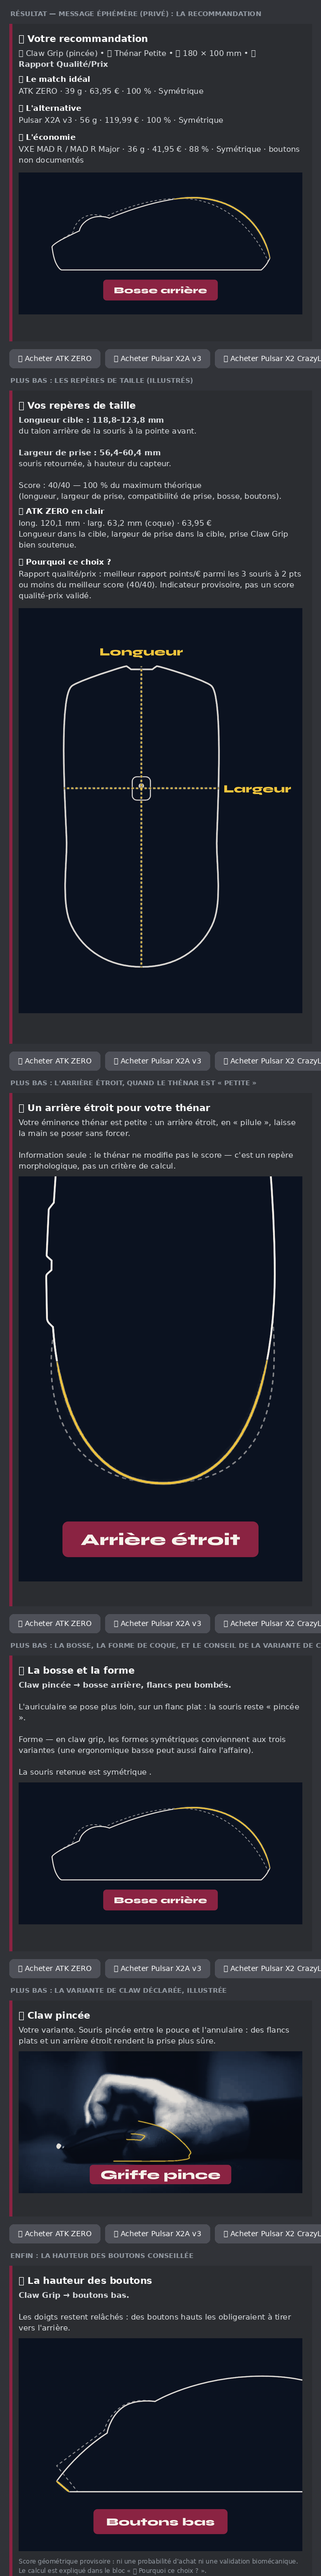
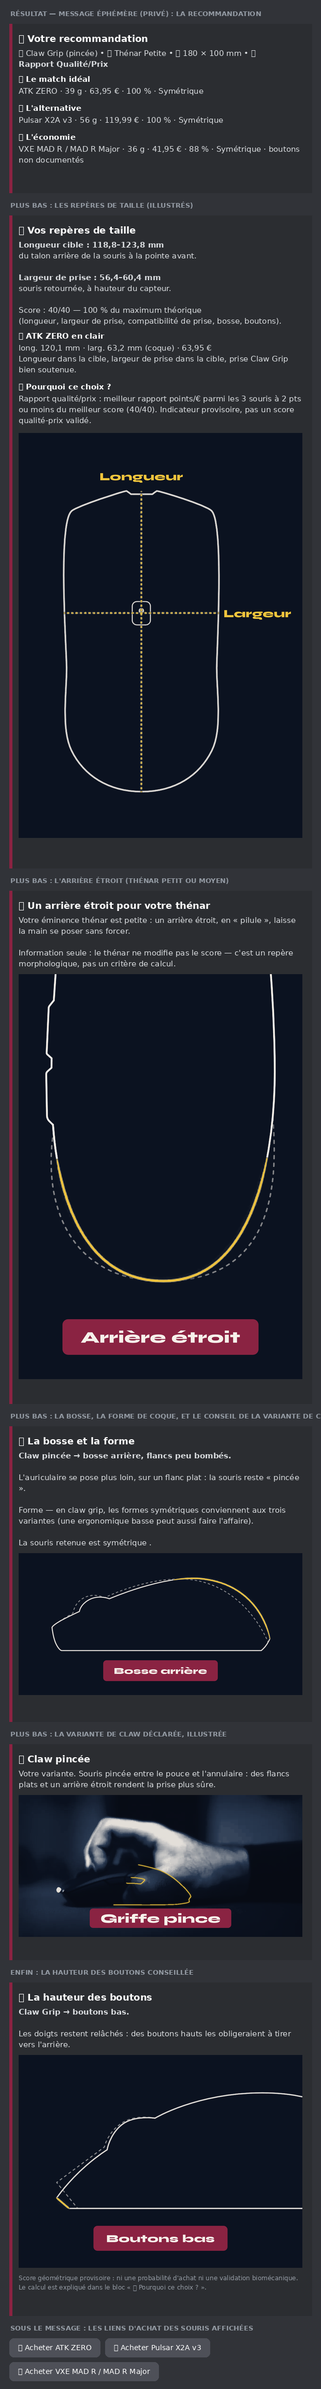
80e passe (1/3) : aperçu fidèle, une illustration par message, banc renforcé
- Aperçu PNG : les boutons étaient tirés du classement interne (selection.ranked) et non
  des souris affichées — l'aperçu montrait « Acheter Pulsar X2 CrazyLight » sous une
  3e place « VXE MAD R ». Ils sont désormais lus sur la vraie ResultsView, dessinés une
  seule fois sous le message (et non sous chacun des six blocs), avec retour à la ligne.
- Résultat : 21 032 des 49 153 messages de la grille (43 %, 82 % en Fingertip) montraient
  deux fois la même illustration. Elle n'apparaît plus qu'une fois, dans le bloc qui
  l'explique ; la recommandation en tête raccourcit d'autant sur mobile.
- Banc : la limite Discord des 6 000 caractères est comptée sur le MESSAGE entier (elle
  ne l'était que par bloc) ; le banc rend désormais les illustrations et refuse un doublon
  (mutation : 313 problèmes sur la grille rapide, 0 sans).
- Budget personnalisé trop bas : la carte « Aucun match » nomme la moins chère des
  souris notées pour la main (les 2 067 profils vides de la grille sont tous des budgets
  de 10 € ou 25 €, jamais une main hors catalogue).

828 tests, banc 21 736 profils : 0 problème.

Claude-Session: https://claude.ai/code/session_01W89iQct2gJnfSdnVdsAKme

diff --git a/tools/render_preview.py b/tools/render_preview.py
@@ -37,18 +37,18 @@ from utils.session import SessionStore  # noqa: E402
 
 
 def _boutons_achat(selection) -> list[tuple[str, bool]]:
-    """Reproduit les boutons RÉELS du résultat : un lien d'achat par souris classée qui en a un.
+    """Les boutons RÉELS du résultat, lus sur la vue que le bot envoie (``flow.ResultsView``).
 
-    Aucun libellé n'est écrit en dur : si le classement change, l'aperçu change avec lui
-    (jamais de bouton montrant une souris qui n'est plus recommandée).
+    Défaut corrigé le 2026-10-15 (80e passe) : cette fonction recalculait les boutons à partir de
+    ``selection.ranked`` — le classement interne — alors que le bot les construit sur les souris
+    **affichées** (``result_slots``). L'aperçu livré montrait donc « Acheter Pulsar X2 CrazyLight »
+    sous une troisième place « VXE MAD R ». Lire la vue elle-même rend tout écart impossible.
     """
     links = load_commercial_links(COMMERCIAL_LINKS_PATH)
-    labels = [
-        "🛒 " + f"Acheter {score.mouse.label}"[: flow.BUTTON_LABEL_MAX]
-        for score in selection.ranked
-        if links.get(score.mouse.id)
-    ]
-    return [(label, False) for label in labels] or [("🔗 Liens à venir", False)]
+    displayed = [score for score in flow.result_slots(selection) if score is not None]
+    vue = flow.ResultsView(displayed, links)
+    return [(f"{bouton.emoji} {bouton.label}" if bouton.emoji else bouton.label, False)
+            for bouton in vue.children]
 
 # Les images locales sont référencées par un faux domaine : l'aperçu dessine les fichiers de
 # assets/illustrations/ sans exiger qu'ils soient déjà publiés en https.
@@ -244,15 +244,30 @@ def draw_embed(canvas, draw, embed, y: int, x: int = PAD, width: int = LARGEUR -
 
 
 def draw_boutons(draw, y: int, libelles: list[tuple[str, bool]], x: int = PAD) -> int:
+    """Une rangée de boutons ; comme sur mobile, un bouton qui ne tient plus passe à la ligne."""
     cursor = x
+    font = _font(False, 14)
     for label, primaire in libelles:
-        font = _font(False, 14)
         width = int(font.getlength(label)) + 34
+        if cursor > x and cursor + width > LARGEUR - PAD:
+            cursor, y = x, y + 46
         fill = BOUTON_PRIMAIRE if primaire else BOUTON_SECONDAIRE
         draw.rounded_rectangle([cursor, y, cursor + width, y + 36], radius=8, fill=fill)
         draw.text((cursor + 17, y + 10), label, font=font, fill=WHITE)
         cursor += width + 10
     return y + 52
+
+
+def hauteur_boutons(libelles: list[tuple[str, bool]]) -> int:
+    """Hauteur occupée par ``draw_boutons`` (mêmes règles de passage à la ligne)."""
+    font = _font(False, 14)
+    lignes, cursor = 1, PAD
+    for label, _ in libelles:
+        width = int(font.getlength(label)) + 34
+        if cursor > PAD and cursor + width > LARGEUR - PAD:
+            lignes, cursor = lignes + 1, PAD
+        cursor += width + 10
+    return 52 + 46 * (lignes - 1)
 
 
 def nouveau_canvas(hauteur_totale: int) -> tuple[Image.Image, ImageDraw.ImageDraw]:
@@ -326,22 +341,29 @@ def build_resultat() -> Image.Image:
     session.budget_mode = BudgetMode.QUALITE_PRIX
     selection = flow.compute_selection(session)
     embeds = flow.results_embeds(session, selection)
-    titres = [
-        "Résultat — message éphémère (privé) : la recommandation",
-        "Plus bas : les repères de taille (illustrés)",
-        "Plus bas : l'arrière étroit, quand le thénar est « Petite »",
-        "Plus bas : la bosse, la forme de coque, et le conseil de la variante de Claw",
-        "Plus bas : la variante de Claw déclarée, illustrée",
-        "Enfin : la hauteur des boutons conseillée",
-    ]
-    hauteur = sum(_embed_height(e, LARGEUR - 4 * PAD) + 28 + 16 for e in embeds) + PAD + 200
+    # Légende de chaque bloc, retrouvée par son TITRE (et non par sa position : un bloc ajouté ou
+    # retiré décalait toutes les légendes suivantes).
+    legendes = {
+        "🎯 Votre recommandation": "Résultat — message éphémère (privé) : la recommandation",
+        "📐 Vos repères de taille": "Plus bas : les repères de taille (illustrés)",
+        "🖐 Un arrière étroit pour votre thénar": "Plus bas : l'arrière étroit (thénar petit ou moyen)",
+        "⛰ La bosse et la forme": "Plus bas : la bosse, la forme de coque, et le conseil de la variante de Claw",
+        "🖱 La hauteur des boutons": "Enfin : la hauteur des boutons conseillée",
+    }
+    boutons = _boutons_achat(selection)
+    hauteur = (sum(_embed_height(e, LARGEUR - 4 * PAD) + 28 + 16 for e in embeds) + PAD
+               + 28 + hauteur_boutons(boutons))
     canvas, draw = nouveau_canvas(hauteur)
     y = PAD
-    for index, embed in enumerate(embeds):
-        y = bandeau(draw, y, titres[index] if index < len(titres) else embed.title)
+    for embed in embeds:
+        legende = legendes.get(embed.title) or (
+            "Plus bas : la variante de Claw déclarée, illustrée" if embed.title.startswith("🦾") else embed.title)
+        y = bandeau(draw, y, legende)
         y = draw_embed(canvas, draw, embed, y)
-        # Aucun bouton interactif : uniquement les liens d'achat (ou « 🔗 Liens à venir »).
-        y = draw_boutons(draw, y, _boutons_achat(selection))
+    # Discord affiche les composants UNE fois, sous le dernier bloc du message (défaut corrigé le
+    # 2026-10-15 : l'aperçu les répétait sous chacun des six blocs). Uniquement des liens d'achat.
+    y = bandeau(draw, y, "Sous le message : les liens d'achat des souris affichées")
+    draw_boutons(draw, y, boutons)
     return canvas
 
 

diff --git a/tests/test_flow.py b/tests/test_flow.py
@@ -277,7 +277,11 @@ async def test_fingertip_result_has_no_thenar_note_nor_rear_illustration(monkeyp
     attendues = {"High": "T01_boutons_hauts", "Low": "T02_boutons_bas", "Mid": "T03_boutons_moyens"}
     illustration = attendues.get(ideal.mouse.button_height)
     assert illustration is not None, f"{ideal.mouse.label} : classe {ideal.mouse.button_height!r} inattendue"
-    assert illustration in embeds[0].image.url
+    # 2026-10-15 (80e passe) : l'illustration est dans le message UNE seule fois — en tête, ou dans le
+    # bloc « La hauteur des boutons » quand c'est la même image que le conseil (on la garde là).
+    images = [embed.image.url for embed in embeds if embed.image and embed.image.url]
+    assert sum(illustration in url for url in images) == 1
+    assert len(images) == len(set(images))
 
 
 def test_steps_total_follows_the_grip():
@@ -1047,10 +1051,17 @@ def test_result_hump_illustration_follows_the_winner(monkeypatch):
     store = SessionStore(ttl_seconds=600)
     session = start_for(store, grip=Grip.PALM, length=180.0, width=90.0, thenar=Thenar.MOYENNE)
     session.budget_mode = BudgetMode.QUALITE_PRIX
-    main = flow.results_embeds(session, flow.compute_selection(session))[0]
+    selection = flow.compute_selection(session)
+    ideal = flow.result_slots(selection)[0]
+    assert flow.result_image_key(ideal, Grip.PALM) == "illustration_hump_mid"
+    embeds = flow.results_embeds(session, selection)
     # Illustration liée à la bosse de la souris RÉELLEMENT retenue : la retenue du profil Palm
-    # 180 × 90 Qualité/Prix est l'ATK A9 Mini, bosse au milieu (« Center » EloShapes → Mid) → T14.
-    assert "T14_bosse_centrale" in main.image.url
+    # 180 × 90 Qualité/Prix est l'ATK Phantom Ultimate, bosse au milieu → T14. C'est aussi l'image du
+    # conseil de bosse en Palm : depuis le 2026-10-15, elle n'est montrée qu'UNE fois, dans ce bloc-là.
+    images = [embed.image.url for embed in embeds if embed.image and embed.image.url]
+    assert sum("T14_bosse_centrale" in url for url in images) == 1
+    bosse = next(embed for embed in embeds if embed.title == "⛰ La bosse et la forme")
+    assert "T14_bosse_centrale" in bosse.image.url
 
 
 @pytest.mark.asyncio
@@ -2201,3 +2212,19 @@ def test_le_renvoi_du_pied_ne_s_affiche_que_quand_l_explication_est_presente():
     embeds = flow.results_embeds(session, selection)
     assert flow.EXPLANATION_REFERENCE in embeds[-1].footer.text
 
+
+
+def test_un_budget_trop_bas_donne_le_prix_de_la_moins_chere_des_souris_notees():
+    """80e passe (2026-10-15) : les 2 067 profils sans résultat de la grille sont tous des budgets
+    personnalisés trop bas. « Essayez un budget plus élevé » ne disait pas lequel : la carte nomme
+    désormais la moins chère des souris notées pour cette main, avec son prix et son pourcentage."""
+    store = SessionStore(ttl_seconds=600)
+    session = start_for(store, grip=Grip.PALM, length=180.0, width=90.0, thenar=Thenar.MOYENNE)
+    session.budget_mode, session.max_budget_eur = BudgetMode.CUSTOM, 10.0
+    carte = flow.results_embeds(session, flow.compute_selection(session))[0].fields[0]
+    assert carte.name == "Aucun match classable"
+    assert carte.value.endswith("La moins chère des souris notées pour votre main : "
+                                "**VXE Dragonfly V3 / V3 Pro** à **13,95 €** (63 %).")
+    # Hors budget personnalisé, la phrase n'a pas de sens : elle n'est jamais ajoutée.
+    session.budget_mode, session.max_budget_eur = BudgetMode.ECONOMIQUE, None
+    assert flow._piste_hors_budget(session) == ""

diff --git a/cogs/finder_flow.py b/cogs/finder_flow.py
@@ -1096,6 +1096,7 @@ def results_embeds(session: FinderSession, selection: Selection) -> list[discord
             value=(
                 "Aucune souris ne peut être retenue avec ces critères. "
                 "Essayez une autre gamme ou un budget plus élevé."
+                + _piste_hors_budget(session)
             ),
             inline=False,
         )
@@ -1133,10 +1134,50 @@ def results_embeds(session: FinderSession, selection: Selection) -> list[discord
     buttons = _buttons_guide_embed(session)
     if buttons is not None:
         embeds.append(buttons)
+    _une_illustration_par_message(embeds)
     # Le renvoi n'est ajouté que si le bloc « Pourquoi ce choix ? » est bien dans le message.
     embeds[-1].set_footer(
         text=SCORE_DISCLAIMER + (EXPLANATION_REFERENCE if dimensions is not None else ""))
     return embeds
+
+
+def _piste_hors_budget(session: FinderSession) -> str:
+    """Budget personnalisé sans résultat : le prix à partir duquel une souris notée existe.
+
+    Mesuré le 2026-10-15 (80e passe) : les 2 067 profils sans résultat de la grille sont TOUS des budgets
+    personnalisés trop bas (10 € : 1 976 ; 25 € : 91) — jamais une main hors catalogue. « Un budget plus
+    élevé » ne disait pas lequel ; la phrase donne désormais le prix de la moins chère des souris notées
+    pour cette main, avec son pourcentage (aucune promesse de mieux que ce qu'elle vaut).
+    """
+    if session.budget_mode is not BudgetMode.CUSTOM or session.grip is None or not session.has_measures:
+        return ""
+    hand = HandMeasure(session.hand_length_mm, session.hand_width_mm)
+    notees = [score for score in (evaluate_mouse(mouse, hand, session.grip, thenar=session.thenar)
+                                  for mouse in load_catalog(MOUSE_DB_PATH))
+              if score.is_scored and score.mouse.price_eur is not None]
+    if not notees:
+        return ""
+    moins_chere = min(notees, key=lambda score: (score.mouse.price_eur, -score.total))
+    return (f"\n\nLa moins chère des souris notées pour votre main : **{moins_chere.mouse.label}** "
+            f"à **{_price_text(moins_chere)}** ({compatibility_percent(moins_chere)} %).")
+
+
+def _une_illustration_par_message(embeds: list[discord.Embed]) -> None:
+    """Une même illustration n'apparaît qu'UNE fois dans le message : dans le dernier bloc qui la porte.
+
+    Mesuré le 2026-10-15 (80e passe) : 21 032 résultats sur 49 153 de la grille (43 %, 82 % en
+    Fingertip) montraient deux fois la même image — la bosse ou les boutons de la souris retenue en
+    haut, puis la même image dans le bloc de conseil qui l'explique. On la garde dans ce bloc-là (le
+    texte qui l'explique est à côté) et la recommandation, en tête, devient plus courte sur mobile.
+    """
+    vues: set[str] = set()
+    for embed in reversed(embeds):
+        url = embed.image.url if embed.image else None
+        if not url:
+            continue
+        if url in vues:
+            embed.set_image(url=None)
+        vues.add(url)
 
 
 def expired_embed() -> discord.Embed:

diff --git a/tools/qa_flow_matrix.py b/tools/qa_flow_matrix.py
@@ -48,6 +48,7 @@ Contrôles effectués, profil par profil :
 from __future__ import annotations
 
 import argparse
+import contextlib
 import itertools
 import sys
 from pathlib import Path
@@ -393,6 +394,18 @@ def check_embed_limits(embeds) -> list[str]:
     L = LIMITES_BLOC
     if not 1 <= len(embeds) <= L["blocs"]:
         problems.append(f"nombre de blocs hors limites : {len(embeds)}")
+    # Discord compte les 6 000 caractères sur TOUS les blocs d'un message réunis, pas bloc par bloc
+    # (trou du banc trouvé le 2026-10-15, 80e passe : seule la limite par bloc était mesurée, alors que
+    # le résultat porte jusqu'à huit blocs). Un dépassement fait refuser l'envoi entier.
+    message = sum(len(e.title or "") + len(e.description or "")
+                  + sum(len(f.name) + len(f.value) for f in e.fields)
+                  + len(e.footer.text or "") + len(e.author.name or "") for e in embeds)
+    _noter_marge("total d'un message", message, L["total"])
+    if message > L["total"]:
+        problems.append(f"message : {message} caractères sur l'ensemble des blocs (> {L['total']})")
+    images = [e.image.url for e in embeds if e.image and e.image.url]
+    if len(images) != len(set(images)):
+        problems.append("la même illustration apparaît deux fois dans le message")
     for index, embed in enumerate(embeds, start=1):
         total = len(embed.title or "") + len(embed.description or "")
         total += sum(len(f.name) + len(f.value) for f in embed.fields)
@@ -538,11 +551,34 @@ def verifier_bytecode() -> str | None:
             "lancez `python tools/check_bytecode.py --purge`, puis relancez le banc")
 
 
+@contextlib.contextmanager
+def illustrations_actives():
+    """Le banc rend chaque résultat AVEC ses illustrations, comme sur le serveur.
+
+    Hors serveur, ``IMAGES_BASE_URL`` est vide et aucun bloc ne porte d'image : la règle « une même
+    illustration une seule fois par message » (80e passe) n'aurait alors jamais été vérifiée. Chaque
+    clé reçoit ici une adresse fictive distincte ; l'état d'origine est rétabli en sortie.
+    """
+    import cogs.finder_flow as flow
+    from utils.assets import IMAGE_KEYS
+    origine = flow.load_image_urls
+    flow.load_image_urls = lambda path, base_url=None: {cle: f"https://banc.local/{cle}.png" for cle in IMAGE_KEYS}
+    try:
+        yield
+    finally:
+        flow.load_image_urls = origine
+
+
 def run(fast: bool) -> int:
     gene = verifier_bytecode()
     if gene is not None:
         print(gene, file=sys.stderr)
         return 2
+    with illustrations_actives():
+        return _run(fast)
+
+
+def _run(fast: bool) -> int:
     cases = 0
     problems: list[str] = []
     empties: list[str] = []

diff --git a/tests/test_apercus.py b/tests/test_apercus.py
@@ -88,3 +88,24 @@ def test_le_lisere_de_l_apercu_vient_de_la_charte_du_bot():
     bot = (ROOT / "cogs" / "finder_flow.py").read_text(encoding="utf-8")
     for morte in ("NAVY = ", "SPARK = "):
         assert morte not in bot, f"constante de palette morte réintroduite : {morte.strip()}"
+
+
+def test_les_boutons_de_l_apercu_sont_ceux_que_le_bot_envoie():
+    """Défaut du 2026-10-15 (80e passe) : l'aperçu tirait ses boutons du classement interne
+    (``selection.ranked``) et montrait « Acheter Pulsar X2 CrazyLight » sous une troisième place
+    « VXE MAD R ». Les boutons de l'aperçu sont désormais lus sur la vue du bot : un bouton par souris
+    AFFICHÉE, dans l'ordre des places, et aucun autre."""
+    from cogs import finder_flow as flow
+    from render_preview import _boutons_achat
+    from utils.models import BudgetMode, ClawVariant, Grip, Thenar
+    from utils.session import FinderSession
+
+    session = FinderSession(user_id=1)
+    session.grip, session.hand_length_mm, session.hand_width_mm = Grip.CLAW, 180.0, 100.0
+    session.thenar, session.claw_variant = Thenar.PETITE, ClawVariant.PINCEE
+    session.budget_mode = BudgetMode.QUALITE_PRIX
+    selection = flow.compute_selection(session)
+    affichees = [score.mouse.label for score in flow.result_slots(selection) if score is not None]
+    libelles = [label for label, _ in _boutons_achat(selection)]
+    assert len(affichees) == 3
+    assert libelles == [f"🛒 Acheter {nom}" for nom in affichees]
